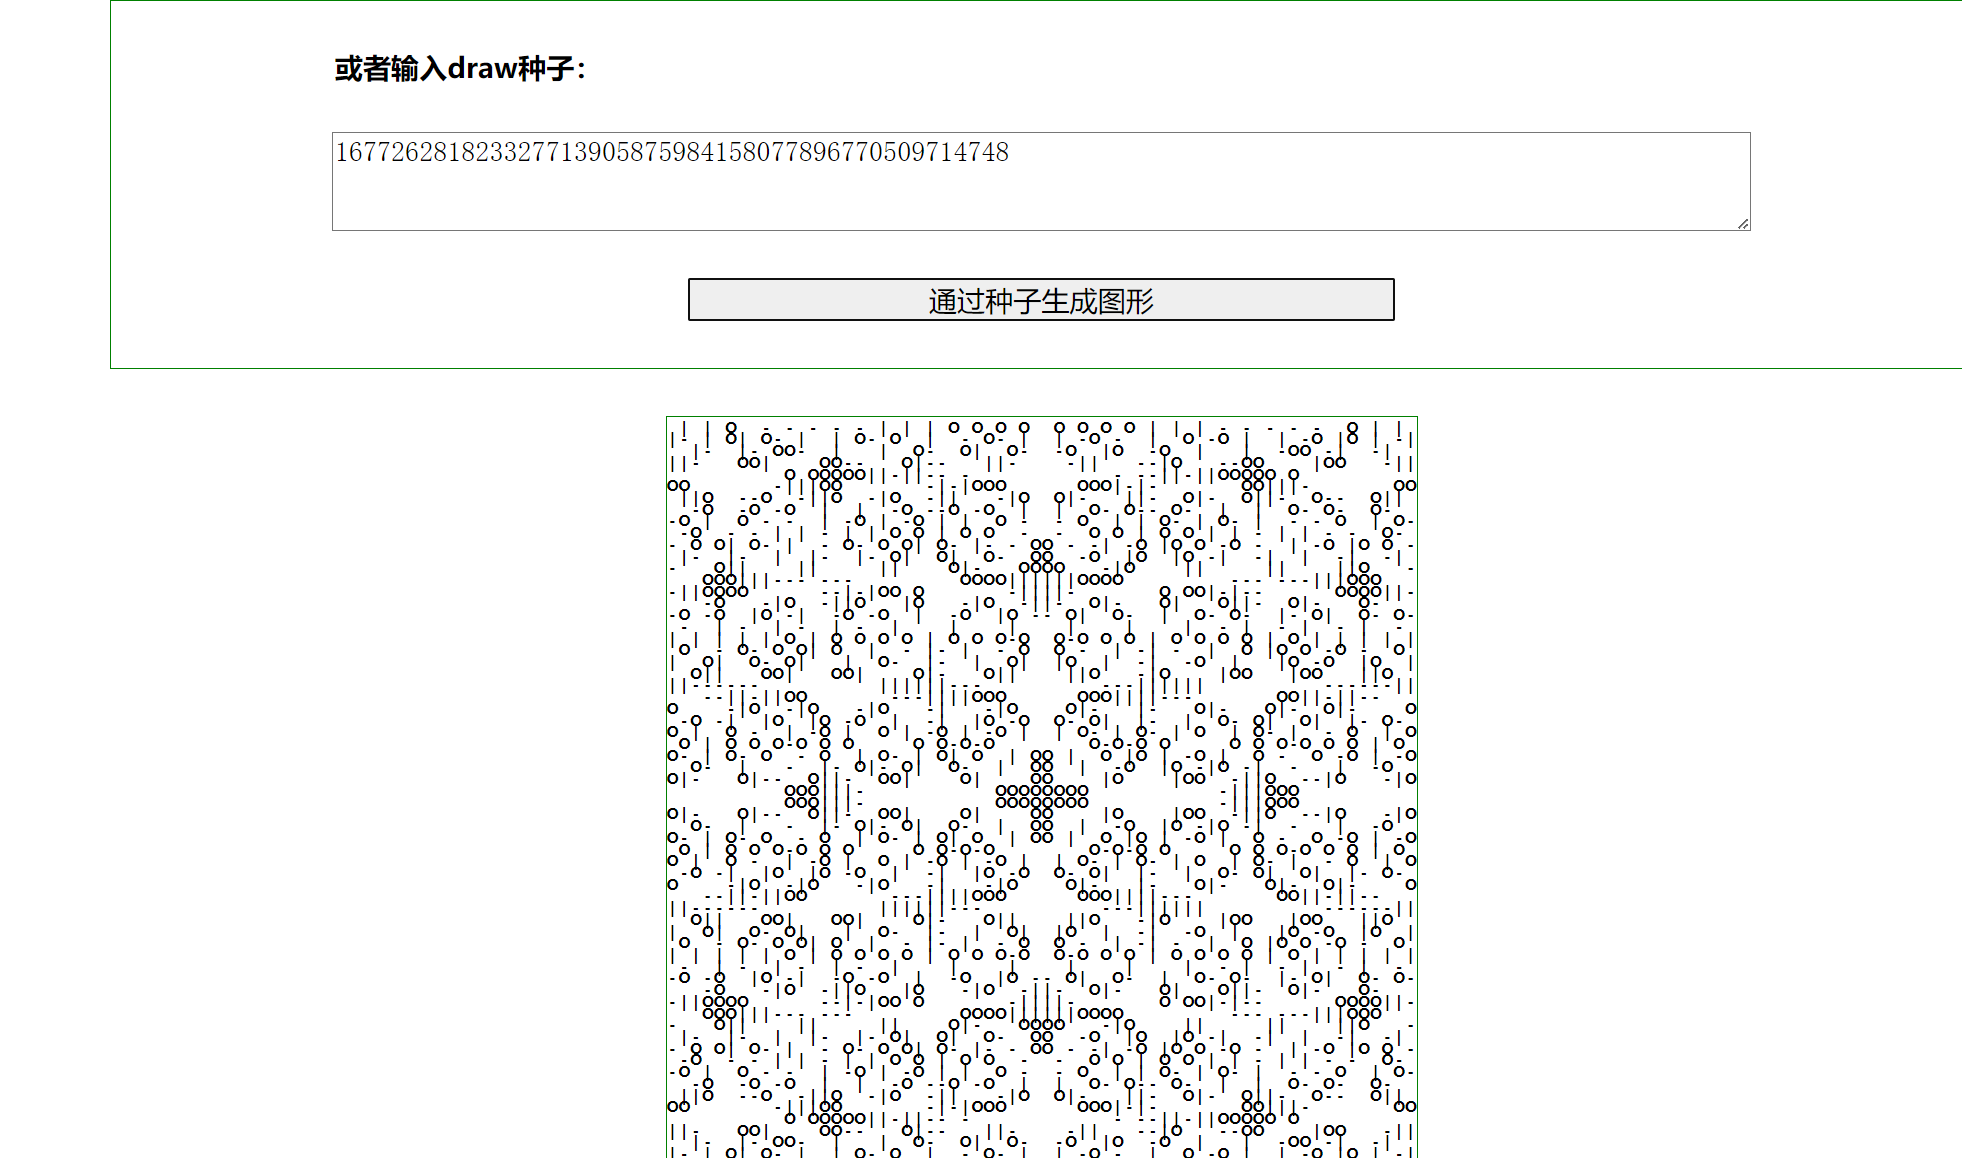
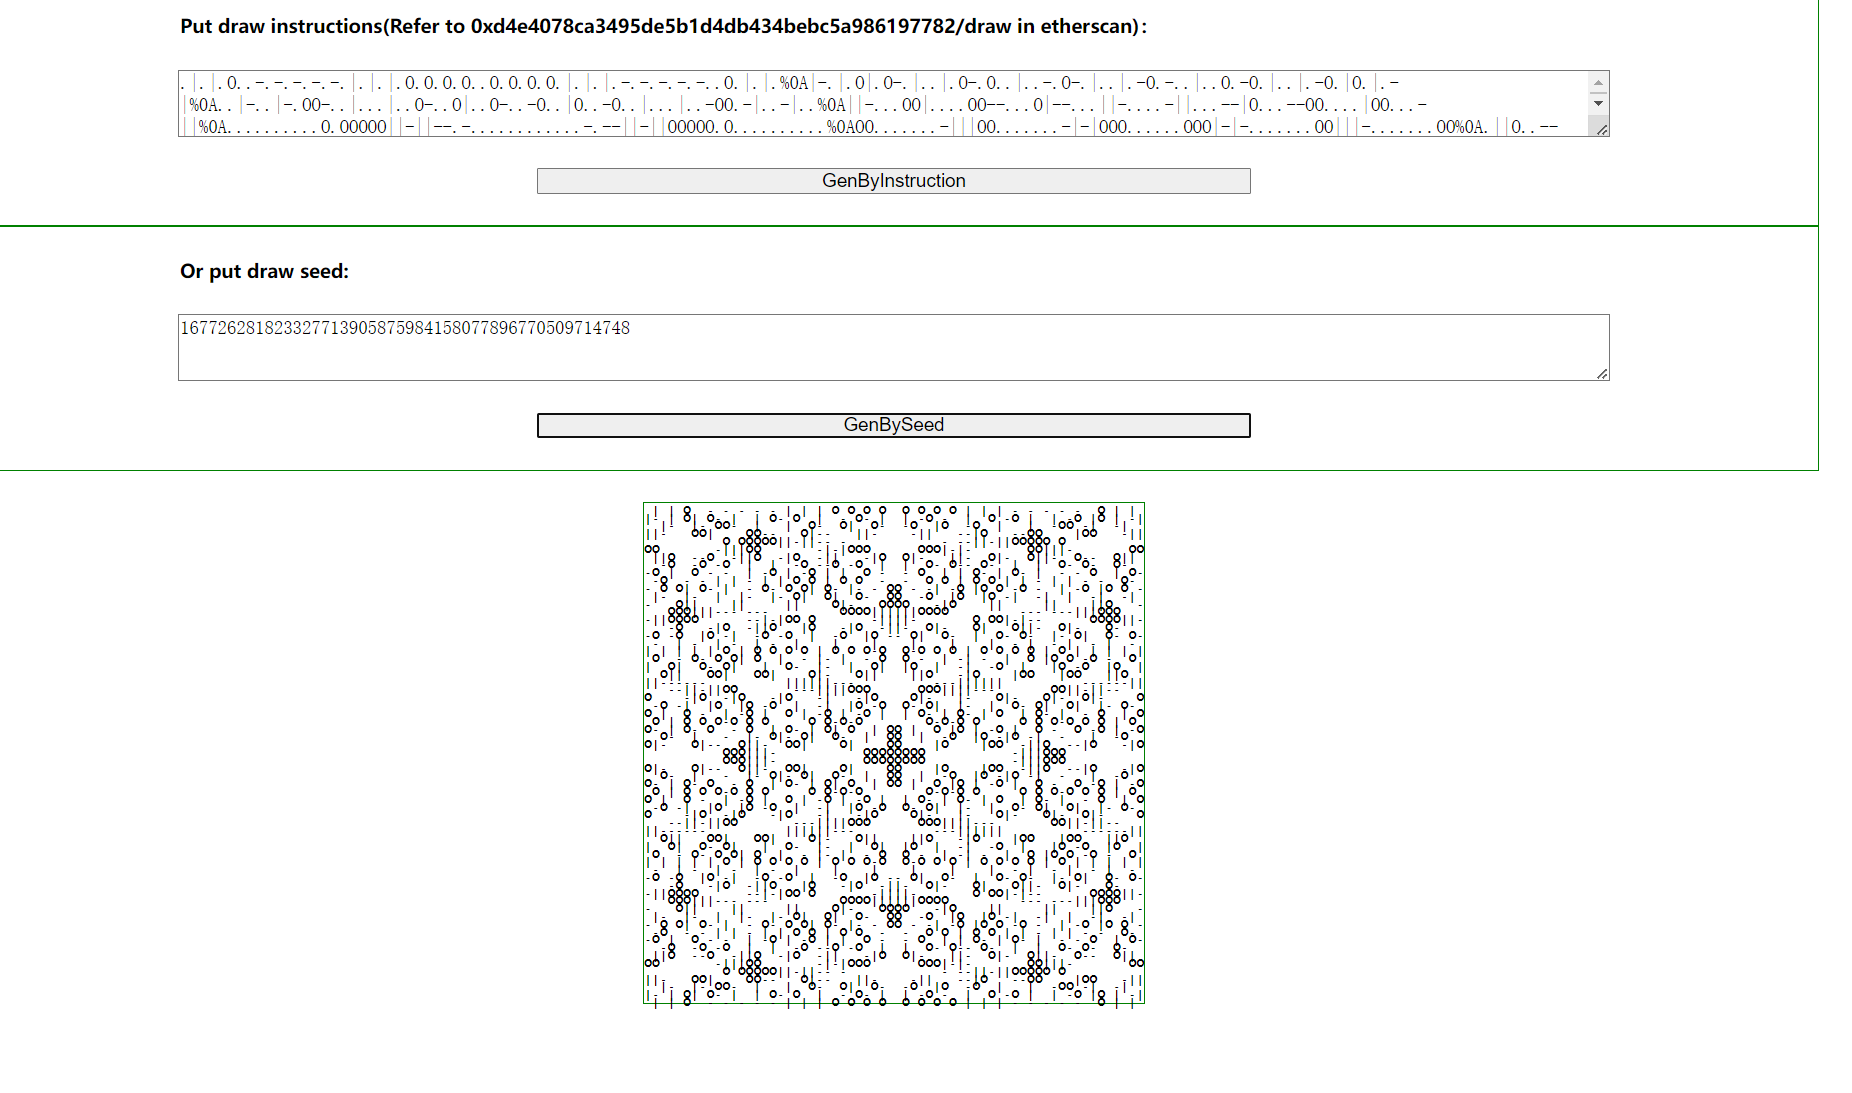
translate

diff --git a/client/src/App.vue b/client/src/App.vue
@@ -1,15 +1,15 @@
 <template>
  <div>
     <div class="input">
-      <h2>请输入draw代码(见etherscan地址0xd4e4078ca3495de5b1d4db434bebc5a986197782的draw函数)：</h2>
+      <h2>Put draw instructions(Refer to 0xd4e4078ca3495de5b1d4db434bebc5a986197782/draw in etherscan)：</h2>
       <textarea  v-model="code" /> 
-      <button @click="generateByCode">通过代码生成图形</button>
+      <button @click="generateByCode">GenByInstruction</button>
     </div>
 
     <div class="input">
-      <h2>或者输入draw种子：</h2>
+      <h2>Or put draw seed:</h2>
       <textarea  v-model="seed" /> 
-      <button @click="generateBySeed">通过种子生成图形</button>
+      <button @click="generateBySeed">GenBySeed</button>
     </div>
 
     <div class="result" v-if="computed">
